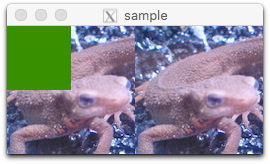
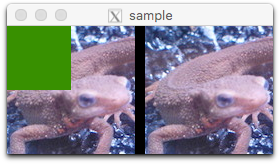
fixed

diff --git a/Tutorial/sample.cpp b/Tutorial/sample.cpp
@@ -23,10 +23,11 @@ int main(int argc, const char* argv[]){
   }
 
   cv::Mat disp;
-  cv::Mat tmp[2];
+  cv::Mat tmp[3];
   tmp[0] = img;
-  tmp[1] = img2;
-  cv::hconcat(tmp, 2, disp);
+  tmp[1] = cv::Mat (cv::Size(10, height), CV_8UC3, cv::Scalar(0,0,0));
+  tmp[2] = img2;
+  cv::hconcat(tmp, 3, disp);
 
   cv::imshow("sample", disp);
   cv::waitKey(0);

diff --git a/Tutorial/README_opencv_c_install.md b/Tutorial/README_opencv_c_install.md
@@ -164,10 +164,11 @@ Opencvで２つ並べた画像を作るにはこんな風に作ります。
 
 ```cpp
 cv::Mat disp;
-cv::Mat tmp[2];
+cv::Mat tmp[3];
 tmp[0] = img;
-tmp[1] = img2;
-cv::hconcat(tmp, 2, disp);
+tmp[1] = cv::Mat (cv::Size(10, height), CV_8UC3, cv::Scalar(0,0,0));
+tmp[2] = img2;
+cv::hconcat(tmp, 3, disp);
 
 cv::imshow("sample", disp);
 cv::waitKey(0);
@@ -219,5 +220,6 @@ int main(int argc, const char* argv[]){
 
   return 0;
 }
-
 ```
+
+答え >> https://github.com/yoyoyo-yo/Gasyori100knock/blob/master/Tutorial/answer.cpp
